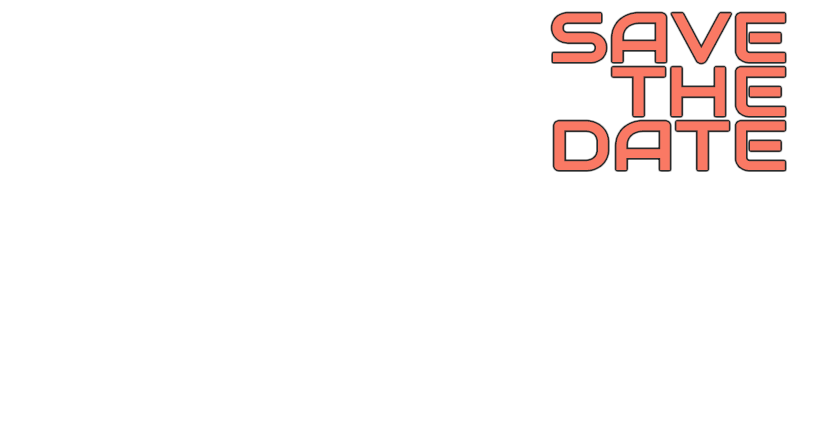
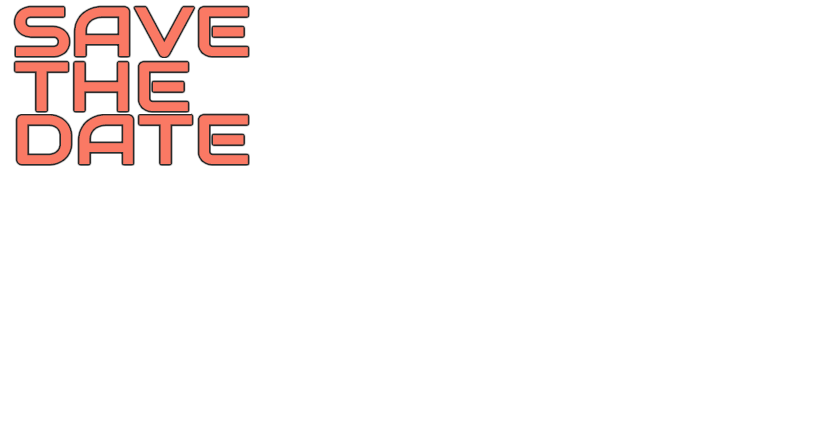
kop

Changed region(s): [[0.0, 0.0, 0.3041, 0.3976], [0.6691, 0.0, 0.9732, 0.4282]]

diff --git a/index.html b/index.html
@@ -16,6 +16,7 @@
 	<script src="https://maxcdn.bootstrapcdn.com/bootstrap/3.3.7/js/bootstrap.min.js"></script>
 	
 	<link href="https://fonts.googleapis.com/css?family=Roboto+Slab|Montserrat|Audiowide|Amaranth" rel="stylesheet">
+	<link rel="stylesheet" href="https://fonts.googleapis.com/icon?family=Material+Icons">
 	
 	<script src="parallax.js"></script>
 	
@@ -30,7 +31,7 @@
 <body>
 
 <div id="fullpage">
-	<div class="section" id="section0"> 
+	<div class="section" id="landing-page"> 
 	    <div class="logo">
 			<div class="container">Anubhav &amp; Apoorva</div>
 		</div>
@@ -51,7 +52,7 @@
 			</div>
 		</footer>
 	</div>
-	<div class="section" id="section1"> 
+	<div class="section" id="apoorva-page"> 
 		<div id="container" class="container">
 			<div class="row">    
 				<div class="col-xs-12"> 
@@ -71,7 +72,7 @@
 			</div>
 		</footer>
 	</div>
-	<div class="section" id="section2">
+	<div class="section" id="anubhav-page">
 		<div id="container" class="container">
 			<div class="row">    
 				<div class="col-xs-12"> 
@@ -84,20 +85,18 @@
 			</div>
 		</div>
 	</div>
-	<div class="section" id="section3">
+	<div class="section" id="save-the-date-page">
 		<div id="container" class="container">
 			<div class="row">
-				<div class="col-xs-12">
-					<div class="absolute watercolor"><img class="animation" src="images/watercolor.png" alt=""></div>
-					<div id="scene4" class="scene4">							
-						<div class="layer" data-depth="0.09"><img class="img-responsive" src="images/save-the-date.png" ></div>
-						<div class="layer" data-depth="0.20"><img class="img" src="images/venue.png"></div>
+				<div class="col-xs-12">					
+					<div id="scene4" class="scene4">
+						<div class="layer" data-depth="0.09"><img class="img" src="images/save-the-date.png" ></div>
 					</div>
 				</div>	
 			</div>
 		</div>
 	</div>
- 	<div class="section" id="section4">
+ 	<div class="section" id="joinus">
 		<div id="container" class="container">
 			<div class="row">
 				<div class="col-xs-12">
@@ -115,6 +114,42 @@
 			</div>
 		</div>
 	</div>
+	<div class="section" id="photos">
+		<div class="inner layer" data-depth="0.11">
+			<div class="container">
+			</div>
+		</div>
+	</div>
+	<div class="section" id="countdown">		
+		<div id="scene6" class="scene6">
+			<div id="overlay" class="layer" data-depth="0.20">
+				<div id="timer"><span id="daysRemaining"></span>days to go</div>
+				<h4>Plan and book your tickets soon.</br>
+					Railway Tickets on Gorakhpur Route fills very early in scheduled 120 days advance-ticketing-window.
+				</h4>
+			</div>
+		</div>
+		<div class="pull-center" style="text-align: center;">
+			<a href="#" title="Trains to Gorakhpur" data-toggle="popover" data-trigger="click" data-html="true"
+				data-content="<ul>
+								  <li><a href='https://goo.gl/nj7li1' target='_blank'>New Delhi to Gorakhpur</a></li>
+								  <li><a href='https://goo.gl/EuSxPW' target='_blank'>Lucknow to Gorakhpur</a></li>
+							</ul>"
+				><i class="material-icons" style="font-size:40px;color:red;text-shadow:2px 2px 4px #111111;">train</i>
+			</a>
+			<a href="#" title="Flights nearest to Gorakhpur" data-toggle="popover" data-trigger="click" data-html="true"
+				data-content="<ul>
+								  <li><a href='https://goo.gl/GDD44a' target='_blank'>Bangalore to Lucknow </a></li>
+								  <li><a href='https://goo.gl/SWkPmk' target='_blank'>Bangalore to Delhi</a></li>
+							</ul>"
+				><i class="material-icons" style="font-size:40px;color:red;text-shadow:2px 2px 4px #111111;">flight</i>
+			</a>
+			<a href="#" title="" data-toggle="popover" data-trigger="click" data-html="true"
+				data-content="<a href='https://goo.gl/maps/CSV3Q5MaGDH2' target='_blank'>Wedding Venue : Ambience - The Banquet Hall </a>">
+				<i class="material-icons" style="font-size:40px;color:red;text-shadow:2px 2px 4px #111111;">location_on</i>
+			</a>
+		</div>
+	</div>
 
 </div>
 	
@@ -129,10 +164,47 @@
 	var parallax = new Parallax(scene3);
 	var scene4 = document.getElementById('scene4');
 	var parallax = new Parallax(scene4);
-		var scene5 = document.getElementById('scene5');
+	var scene5 = document.getElementById('scene5');
 	var parallax = new Parallax(scene5);
-
+	var scene6 = document.getElementById('scene6');
+	var parallax = new Parallax(scene6);
+	var parallax = new Parallax(photos);
 	</script>
- 
+	
+	<script>
+		var end = new Date('11/13/2017 08:0 PM');
+		var _second = 1000;
+		var _minute = _second * 60;
+		var _hour = _minute * 60;
+		var _day = _hour * 24;
+		var timer;
+		function showRemaining() {
+			var now = new Date();
+			var distance = end - now;
+			if (distance < 0) {
+
+				clearInterval(timer);
+				document.getElementById('daysRemaining').innerHTML = 'Over!';
+
+				return;
+			}
+			var days = Math.floor(distance / _day);
+			var hours = Math.floor((distance % _day) / _hour);
+			var minutes = Math.floor((distance % _hour) / _minute);
+			var seconds = Math.floor((distance % _minute) / _second);
+
+			document.getElementById('daysRemaining').innerHTML = days + ' ';
+		}
+		timer = setInterval(showRemaining, 1000);
+	</script>
+	
+	<script>
+	$(document).ready(function(){
+		$('[data-toggle="popover"]').popover({
+			container: 'body'
+		});   
+	});
+	</script>
+
 </body> 
 </html>

diff --git a/style.css b/style.css
@@ -1,28 +1,34 @@
-body {
+/* body {
 	background-color: white;
-}
+} */
 
-#section0,
-#section1,
-#section2,
-#section3{
+#landing-page,
+#apoorva-page,
+#anubhav-page 
+#countdown{
     background-size: cover;
 }
 
-/* Defining each sectino background and styles 
+/* Defining each section background and styles 
 * --------------------------------------- */
-#section0{
+#landing-page{
     background-image: url(images/bg1.jpg);
 }
-#section1{
+#apoorva-page{
     background-image: url(images/bg2.jpg);
 }
-#section2{
+#anubhav-page{
     background-image: url(images/bg3a.jpg);
 }
-
-.layer div  {
-    position: absolute;
+#countdown{
+    background-image: url(images/dance.png), url(images/bg9.jpg);
+	background-repeat: no-repeat, no-repeat;
+	background-position: left top, right bottom;
+}
+#photos {
+    background-image: url(images/bg4.png), url(images/g10.jpg);
+	background-repeat: no-repeat, no-repeat;
+	background-position: left-bottom, right top;
 }
 
 .and {
@@ -34,6 +40,25 @@ body {
 .footer {
 	position: absolute; 
 	bottom: 0;
+}
+
+
+
+
+
+#overlay {
+text-align: center;
+display: inline-block;
+border-radius: 25px;
+background-color: #fff;
+background-color: rgba(245,245,245,0.6);
+padding: 0px; 
+}
+
+#timer {
+	font-family: 'Audiowide', cursive;
+	color: #fc32ca;
+	font-size: 5em;
 }
 
 
@@ -84,10 +109,6 @@ body {
     100% 	{color: #f22a62;}
 }
 
-
-
-
-
 .absolute {
  position: absolute!important;
 }
@@ -95,9 +116,8 @@ body {
 .watercolor {
  z-index: -998;
  top: -70px;
- right: -70px;
- height: 100%;
- width: 50%;
+ left: 500px;
+ opacity: 100%;
 }
 .animation {
  -webkit-animation: wave 7.11111s 0.1s infinite linear;
@@ -151,4 +171,12 @@ body {
 	 -moz-transform: rotateZ(360deg) translate3d(0, 10%, 0) rotateZ(-360deg);
 	 transform: rotateZ(360deg) translate3d(0, 1%, 0) rotateZ(-360deg);
  }
+}
+
+#photos .inner {
+background: url(images/photos.png) no-repeat center;
+width: 100%;
+height: 100%;
+margin: 0 auto;
+background-size: 600px auto;
 }
